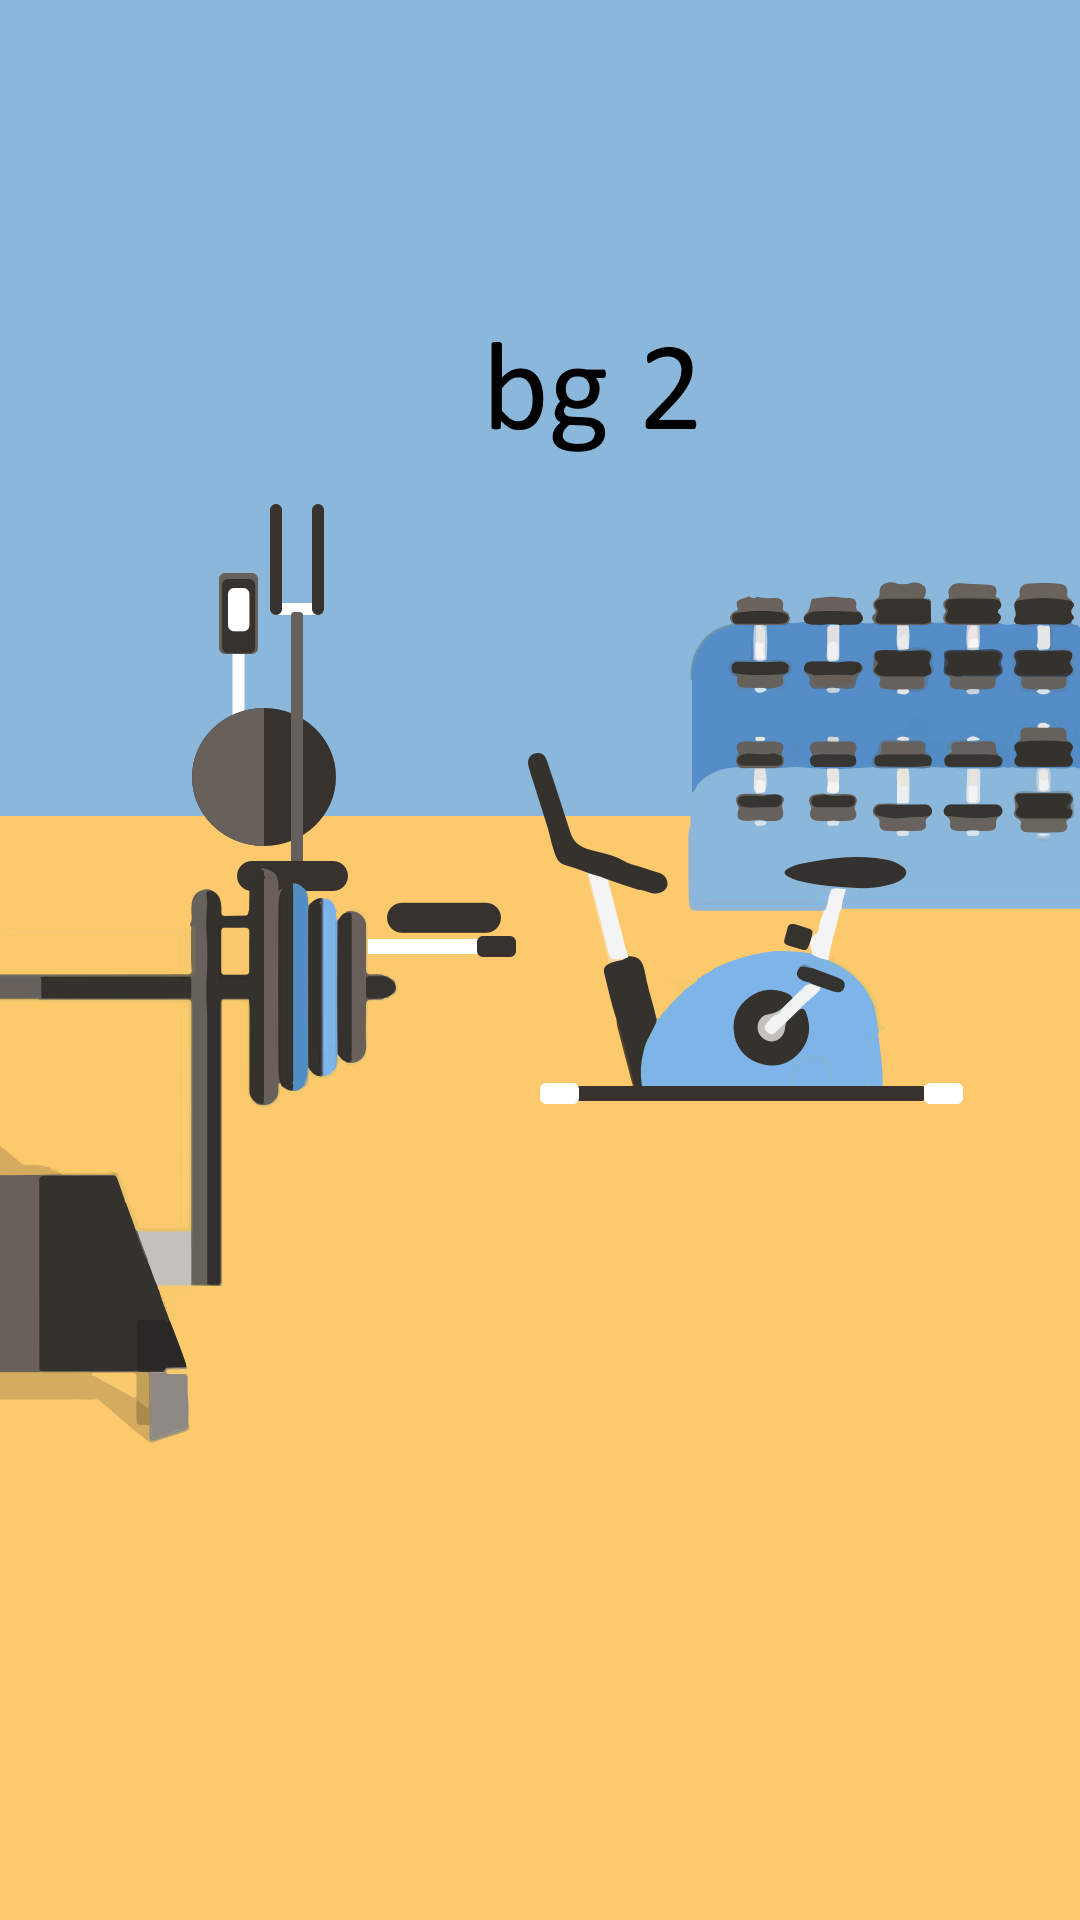
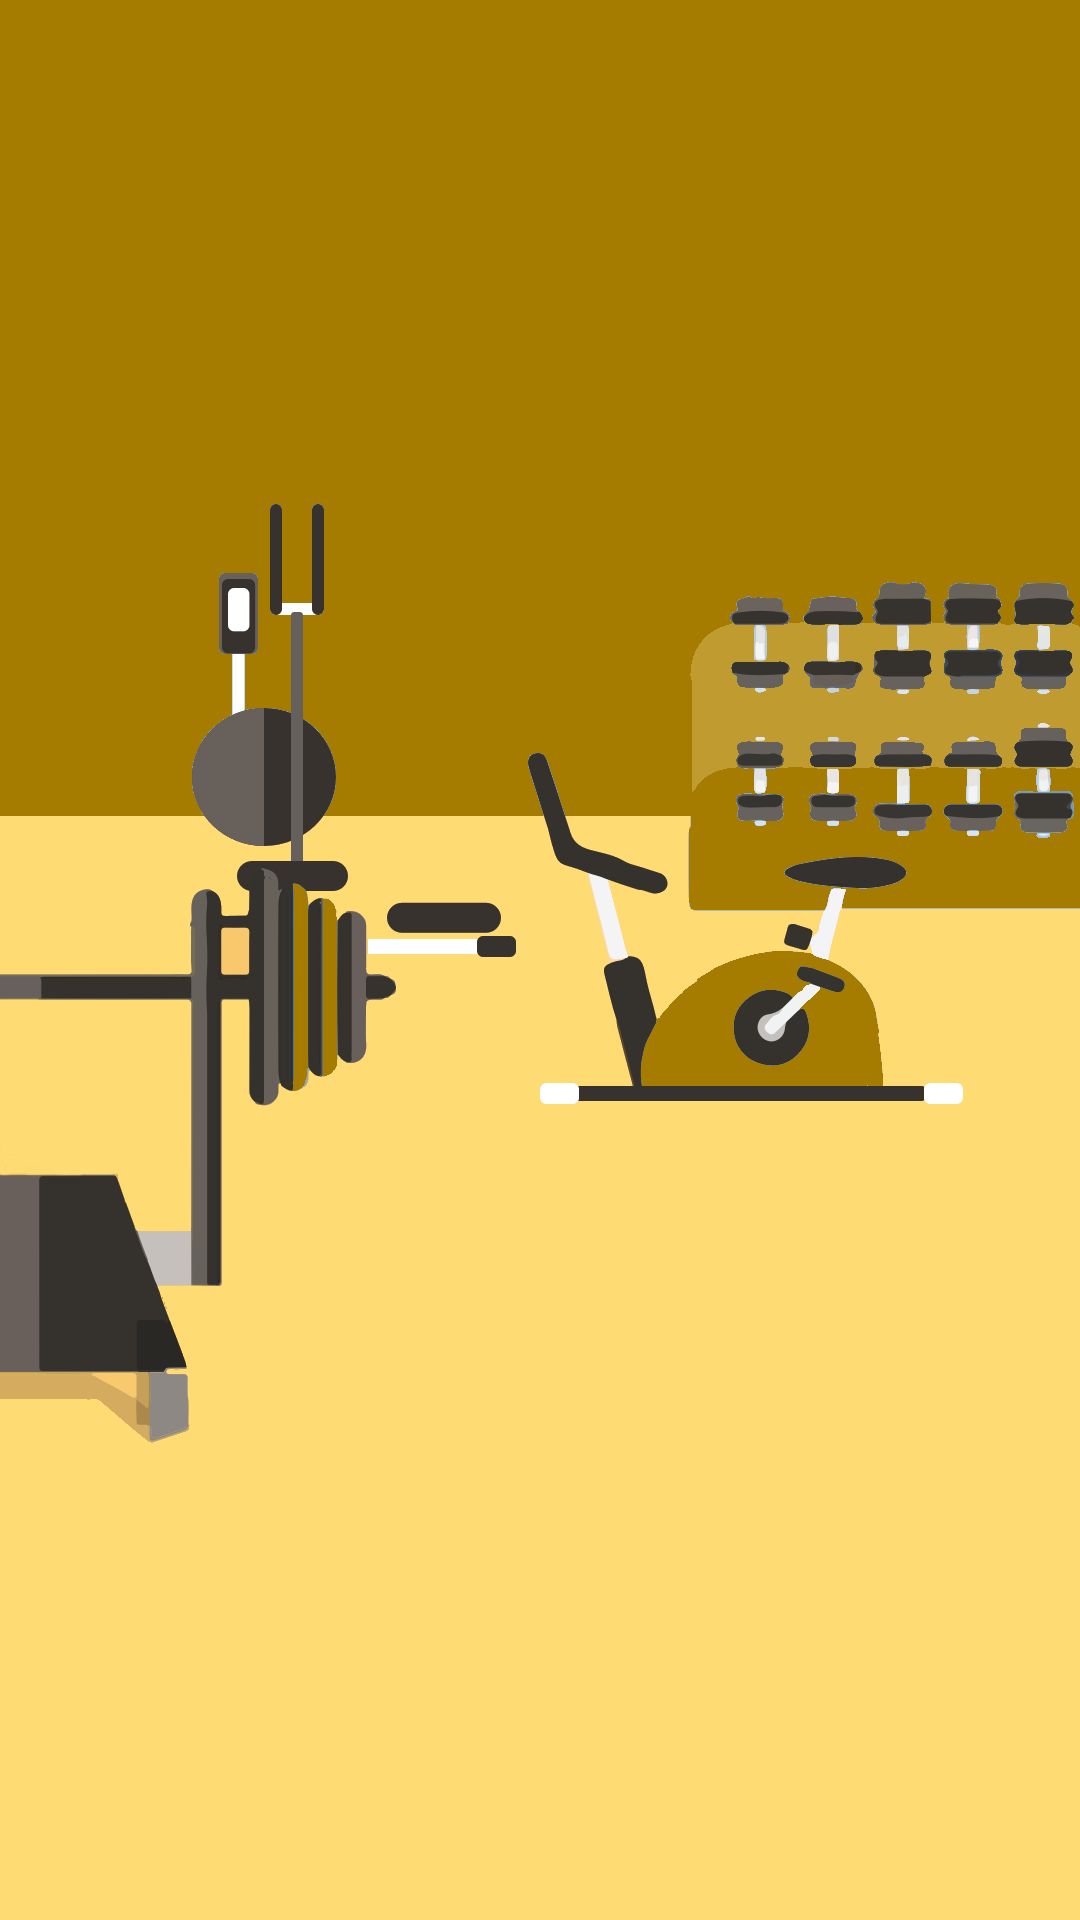
Changed some code and redesigned GOLD gym

diff --git a/app/src/main/java/com/example/ivo/gymbuddy/ShopItems.java b/app/src/main/java/com/example/ivo/gymbuddy/ShopItems.java
@@ -17,17 +17,17 @@ class ShopItems {
     protected int buyGym(int position, int money){
 
         switch (position){
-            case 0:
+            case 1:
                 if(money >= 10)
                     return 10;
                 return -1;
 
-            case 1:
+            case 2:
                 if(money >= 50)
                     return 50;
                 return -1;
 
-            case 2:
+            case 3:
                 if(money >= 200)
                     return 200;
                 return -1;

diff --git a/app/src/main/java/com/example/ivo/gymbuddy/ViewPagerAdapter.java b/app/src/main/java/com/example/ivo/gymbuddy/ViewPagerAdapter.java
@@ -16,7 +16,7 @@ public class ViewPagerAdapter extends PagerAdapter {
 
     private Context context;
     private LayoutInflater layoutInflater;
-    private Integer [] images = {R.drawable.home_bg, R.drawable.gym1, R.drawable.gym2, R.drawable.gym3};
+    private Integer [] images = {R.drawable.home_bg, R.drawable.gym1, R.drawable.gym2, R.drawable.home_bg3};
 
     public ViewPagerAdapter(Context context){
         this.context = context;
